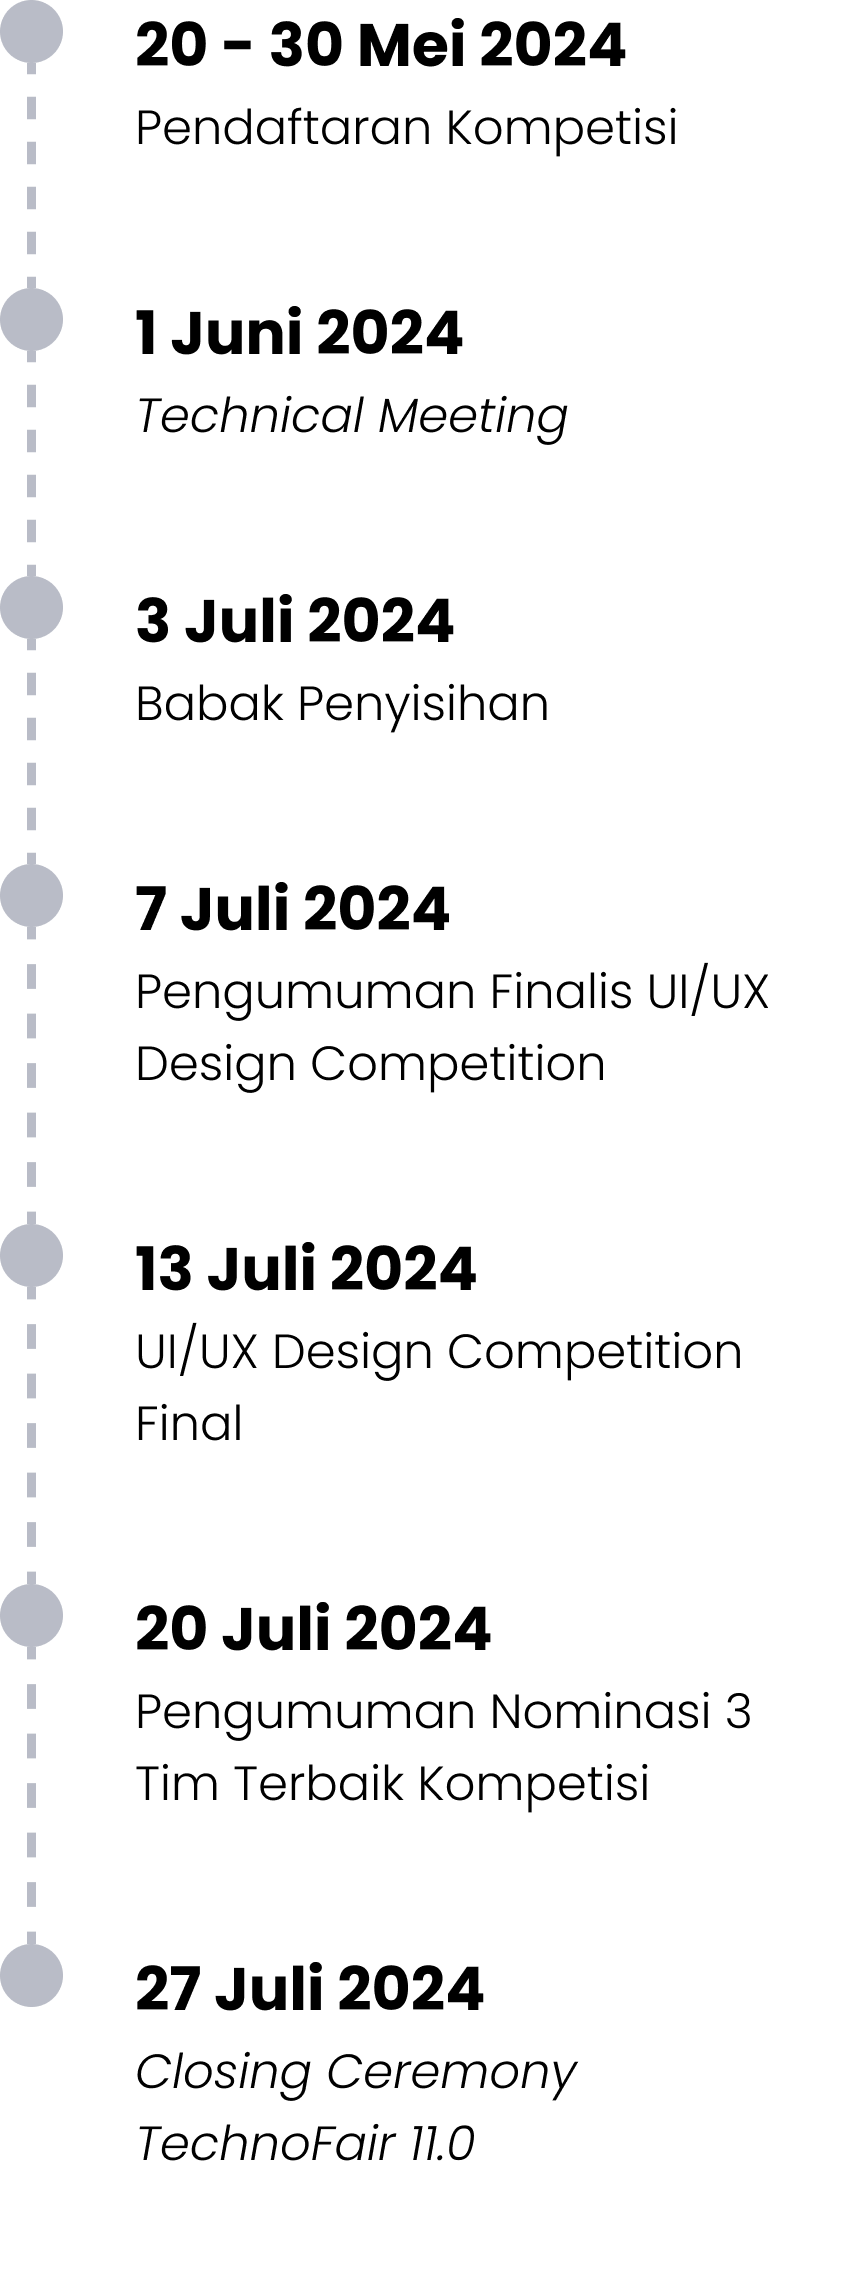
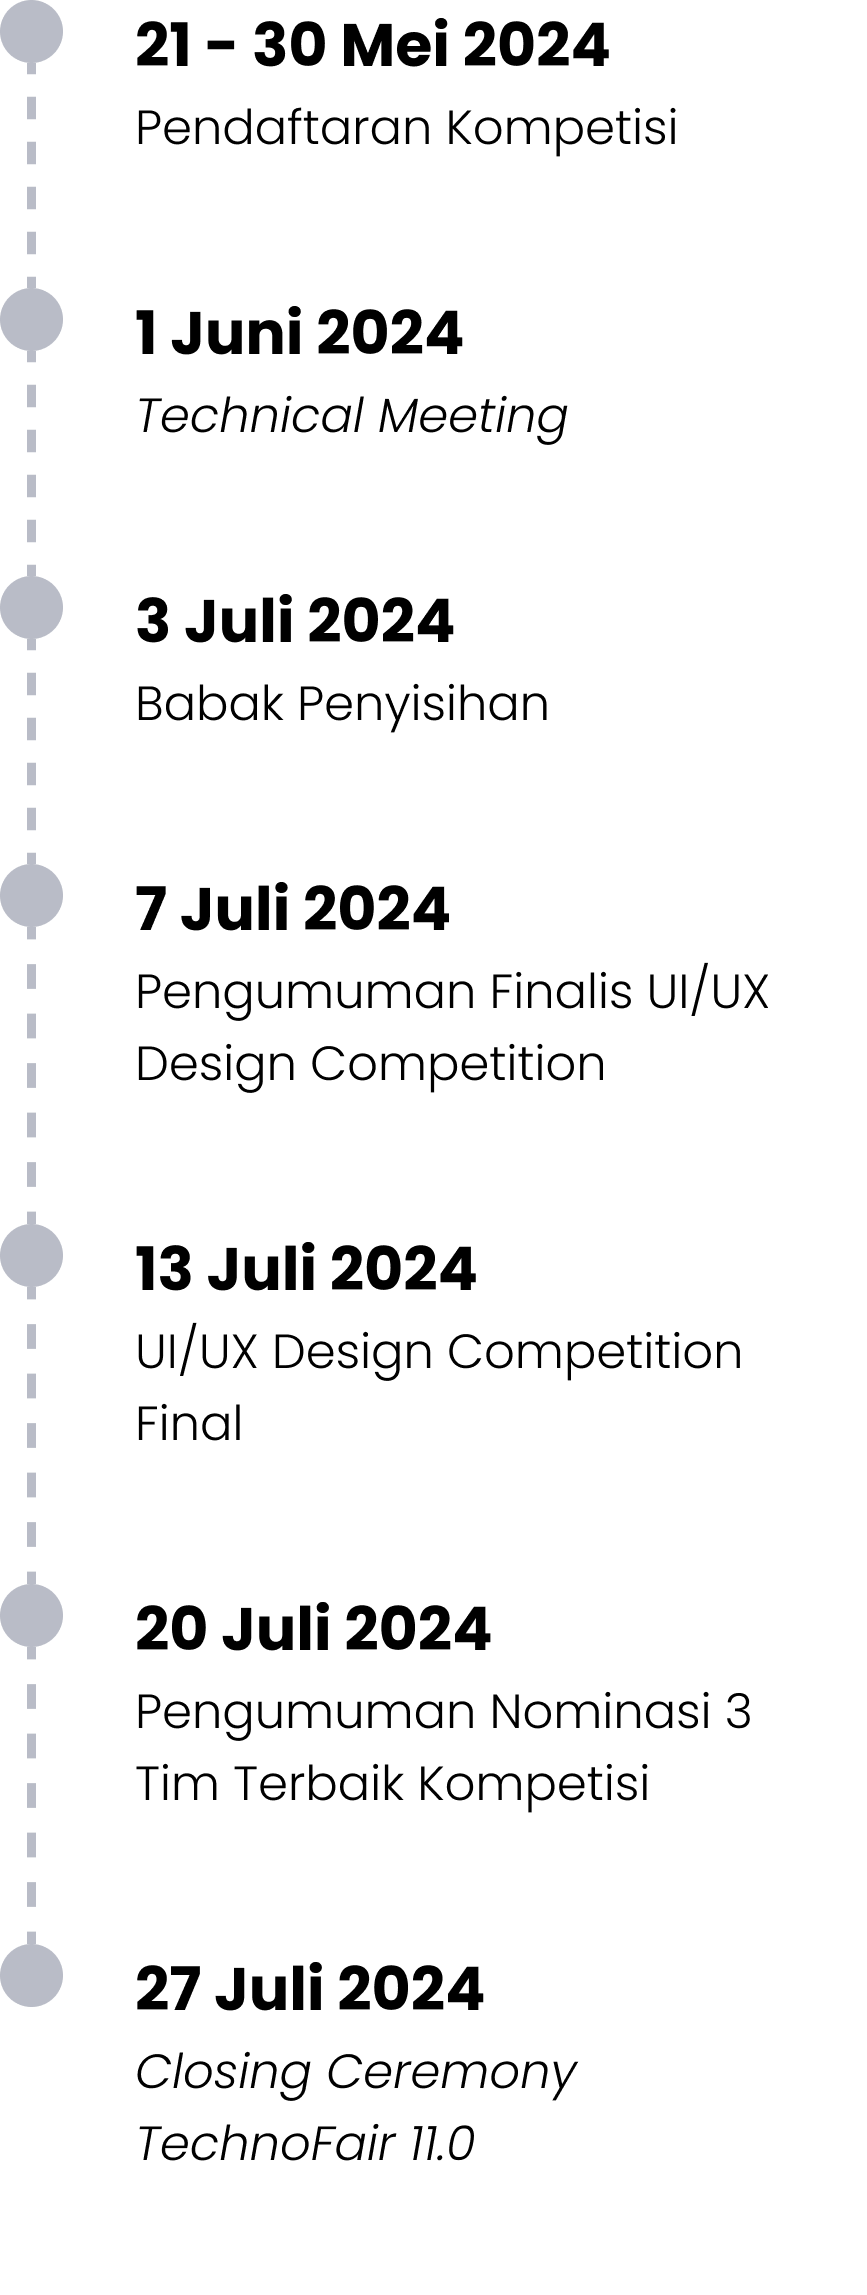
update tanggal timeline

Changed region(s): [[0.2803, 0.0, 0.7163, 0.0309], [0.1869, 0.0, 0.2491, 0.0309]]

diff --git a/src/components/technofair/event.tsx b/src/components/technofair/event.tsx
@@ -283,7 +283,7 @@ export default function EventPage() {
                     <div className="w-28 h-7 bg-[#E6A356] rounded-xl">
                       <p className="text-[#241525] text-sm text-center pt-1">Competition</p>
                     </div>
-                    <div className="py-9">
+                    <div className="py-5">
                       <p className="italic font-bold text-2xl">Digital Infographic</p>
                       <p className="text-sm text-[#B9BCC7] mt-2">&quot;Dynamic Collaboration: Pioneering Future Technologies&quot;</p>
                     </div>
